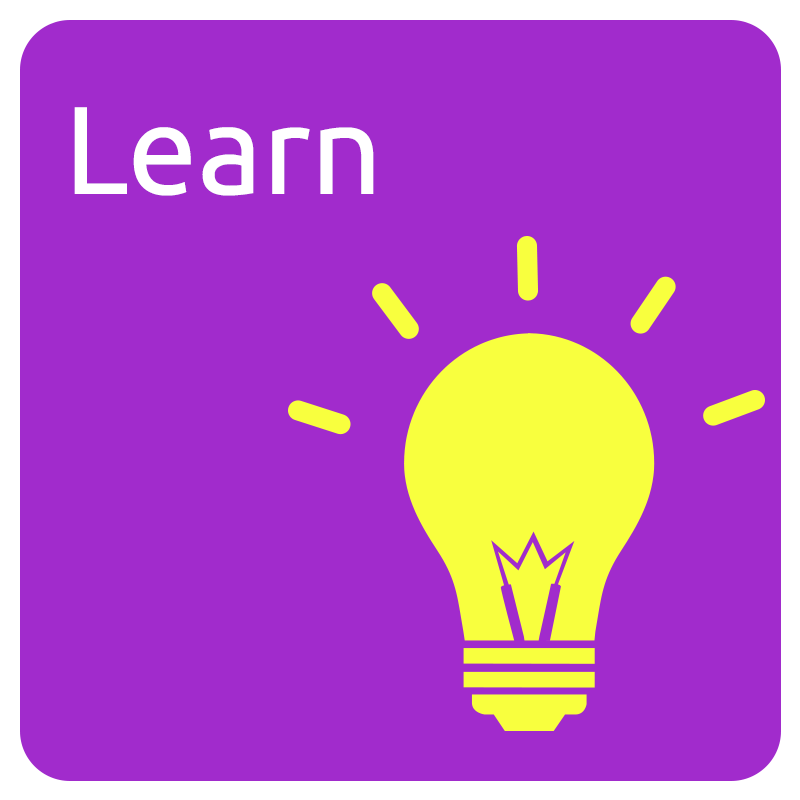
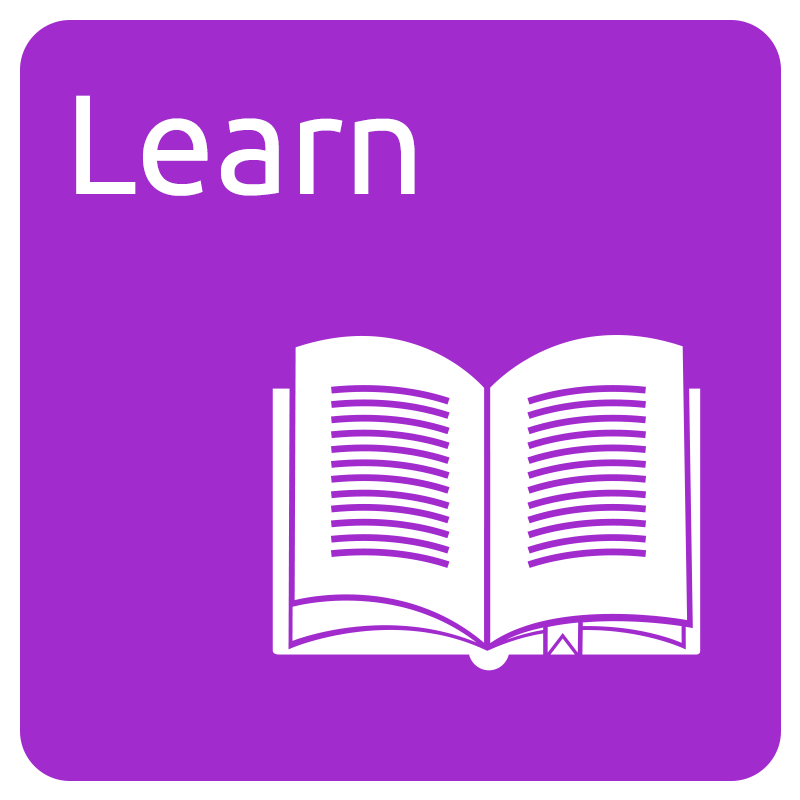
adding new images

diff --git a/data/details.js b/data/details.js
@@ -2,57 +2,68 @@ export let detailsData = {
     learn: {
         name: 'Learn',
         isAct: false,
-        paragraph: 'What is human trafficking? Human trafficking is defined as the act of compelling a person to engage in sexual acts or forced labor. This allows the trafficker to profit from the exploitation while continuing to manipulate the victims. This is modern day slavery and has reached near epidemic levels in the United States. Just Ask works wo counteract these growing numbers through education and awareness.',
-        h2: 'Where Does Human Trafficking Occur?',
-        paragraph: 'Like any crime, human trafficking can occur in any community where there are teens to manipulate and an illegal black market place to service. In 2016 there were over 7,500 cases of human trafficking reported in the United States according to the National Human Trafficking Hotline.',
-        paragraph: 'This is only a small percentage of the actual occurrences of trafficking as many cases go unreported. There are so many unreported cases because most of us wouldn’t recognize trafficking if we saw it. This map (courtesy of Polaris Project) shows where these phone calls originated from. Visit National Human Trafficking Hotline website to get statistics specific to your state:',
-        image: ''
+        paragraphs: [
+            {
+                h1: 'Human Trafficking',
+                p:
+                    'What is human trafficking? Human trafficking is defined as the act of compelling a person to engage in sexual acts or forced labor. This allows the trafficker to profit from the exploitation while continuing to manipulate the victims. This is modern day slavery and has reached near epidemic levels in the United States. Just Ask works wo counteract these growing numbers through education and awareness.',
+            },
+            {
+                h1: 'Where Does Human Trafficking Occur?',
+                p: `Like any crime, human trafficking can occur in any community where there are teens to manipulate and an illegal black market place to service. In 2016 there were over 7,500 cases of human trafficking reported in the United States according to the National Human Trafficking Hotline.
+                This is only a small percentage of the actual occurrences of trafficking as many cases go unreported. There are so many unreported cases because most of us wouldn’t recognize trafficking if we saw it. This map (courtesy of Polaris Project) shows where these phone calls originated from. Visit National Human Trafficking Hotline website to get statistics specific to your state:`,
+            },
+        ],
     },
     prevent: {
         name: 'Prevent',
         isAct: false,
-        h1: 'You can help prevent Human Trafficking by knowing the signs to stop the abuse.'
-        paragraph: 'Members of the community are our greatest assets in the fight to end human trafficking. The best way to be effective is by being able to identify the patterns and signs of abuse. Victims can be difficult to identify, so know the signs.',
+        h1: 'You can help prevent Human Trafficking by knowing the signs to stop the abuse.',
+        paragraph:
+            'Members of the community are our greatest assets in the fight to end human trafficking. The best way to be effective is by being able to identify the patterns and signs of abuse. Victims can be difficult to identify, so know the signs.',
         youngPeople: {
             h1: 'Know the Patterns of Traffickers',
             h2: 'Victims can be from any gender, ethnicity, social/economic group, or level of academic achievement.',
             h3: 'Scouting',
-            paragraph: 'Traffickers find victims via social media, shopping malls, bus stops, school, or even through friends.',
+            paragraph:
+                'Traffickers find victims via social media, shopping malls, bus stops, school, or even through friends.',
             h3: 'Manipulating',
-            paragraph: 'Traffickers will manipulate young people by pretending to be boyfriends or girlfriends, buying presents, treating their intended victims very well, listending and acting interested in their victims lives, and even by lieing.',
+            paragraph:
+                'Traffickers will manipulate young people by pretending to be boyfriends or girlfriends, buying presents, treating their intended victims very well, listending and acting interested in their victims lives, and even by lieing.',
             h3: 'Trapping',
-            paragraph: 'Traffickers trick or control young people into staying in the lifestyl by false love or lies, drugs, threats of violence, or actual physical violence.'
+            paragraph:
+                'Traffickers trick or control young people into staying in the lifestyl by false love or lies, drugs, threats of violence, or actual physical violence.',
         },
         parentsAndAdults: {
             h1: 'The Key to Prevent is Involvement',
-            h2: 'The best way to prevent your child or loved ones from being targeted is to pay attention them and their behavior.'
+            h2:
+                'The best way to prevent your child or loved ones from being targeted is to pay attention them and their behavior.',
             h3: 'Know What Your Teen is Doing',
             h3: `Be Involved in Your Teen's Life`,
             h3: 'Talk With Your Teen About Sensitive Topic',
             h3: 'Help Build Their Self-Esteem & Confidence',
             h3: 'Discuss Social Media & Monitor Their Usage',
-            h3: 'Talk With Your Teen About Frienship'
-
-        }
+            h3: 'Talk With Your Teen About Frienship',
+        },
     },
     act: {
         name: 'Act',
         isAct: true,
         h1: `Let's Work Together to End Trafficking`,
-        paragraph: 'We need the cooperation and coordination of all of our community members to bring an end to human trafficking. By bringing awareness of the problem to your friends and family, oorganizing an event, club, or activity with the goal of educating larger groups, or simply donating to the cause, your support is what keeps the foundation going. The only way we can beat human trafficking is with the help of people like YOU!',
+        paragraph:
+            'We need the cooperation and coordination of all of our community members to bring an end to human trafficking. By bringing awareness of the problem to your friends and family, oorganizing an event, club, or activity with the goal of educating larger groups, or simply donating to the cause, your support is what keeps the foundation going. The only way we can beat human trafficking is with the help of people like YOU!',
         h2: 'Report an Incident of Suspected Human Trafficking',
-        incidentReport: {
-
-        }
+        incidentReport: {},
     },
     donate: {
         name: 'Donate',
         isAct: false,
-        h1: 'You Can Make a Difference Today'
-        paragraph: 'Your gift today provides immediate crisis care and transformative services for a homeless child in need. Here is were you can give back:',
+        h1: 'You Can Make a Difference Today',
+        paragraph:
+            'Your gift today provides immediate crisis care and transformative services for a homeless child in need. Here is were you can give back:',
         h4: 'Covenant House',
         h4: 'Blue Campaign',
         h4: 'Worth While Wear',
-        h4: 'Unlikely Heroes'
+        h4: 'Unlikely Heroes',
     },
 };

diff --git a/src/Details.js b/src/Details.js
@@ -1,6 +1,5 @@
 import React, { Component } from 'react';
 import { SafeAreaView, Text, StyleSheet, View, ScrollView } from 'react-native';
-import { H1, H2, H3, H4 } from './Components/Headers';
 
 export class Details extends Component {
     constructor(props) {
@@ -14,30 +13,37 @@ export class Details extends Component {
     render() {
         const { params } = this.props.navigation.state;
         const { navigate } = this.props.navigation;
-        // console.warn(params.data.paragraph);
-        // console.warn(params.data.h1);
+        // console.error(params.data.paragraphs);
+
         return (
             <SafeAreaView>
-                <ScrollView>
-                    <H1 h1={params.data.h1} />
-                    <H2 h2={params.data.h2} />
-                    <H2 h3={params.data.h3} />
-
-                    <View style={styles.paragraph}>
-                        <Text style={styles.paragraphText}>{params.data.paragraph}</Text>
-                    </View>
+                <ScrollView style={styles.container}>
+                    <Paragraph data={params.data.paragraphs[0]} />
+                    <Paragraph data={params.data.paragraphs[1]} />
                 </ScrollView>
             </SafeAreaView>
         );
     }
 }
+function Paragraph(props) {
+    return (
+        <View style={styles.paragraph}>
+            <Text style={styles.header}>{props.data.h1}</Text>
+            <Text style={styles.paragraphText}>{props.data.p}</Text>
+        </View>
+    );
+}
 const styles = StyleSheet.create({
-    paragraph: { paddingLeft: 20, paddingRight: 20 },
-    h1: {
-        fontSize: 50,
+    container: {
+        marginTop: 10,
     },
-    h2: {
-        fontSize: 25,
+    paragraph: {
+        padding: 10,
+        paddingLeft: 20,
+        paddingRight: 20,
+    },
+    header: {
+        fontSize: 30,
     },
     paragraphText: {
         fontSize: 18,

diff --git a/src/Components/HeaderButton.js b/src/Components/HeaderButton.js
@@ -17,13 +17,13 @@ export class HeaderButton extends Component {
             <TouchableOpacity
                 style={styles.headerButton}
                 onPress={() => this.props.navigate('Details', { data: detailsData[this.props.data.name] })}>
-                <Image style={{ width: 170, height: 170 }} source={images[this.props.data.key]} />
+                <Image style={{ width: 177, height: 177 }} source={images[this.props.data.key]} />
             </TouchableOpacity>
         );
     }
 }
 const styles = StyleSheet.create({
     headerButton: {
-        padding: 10,
+        padding: 1,
     },
 });
